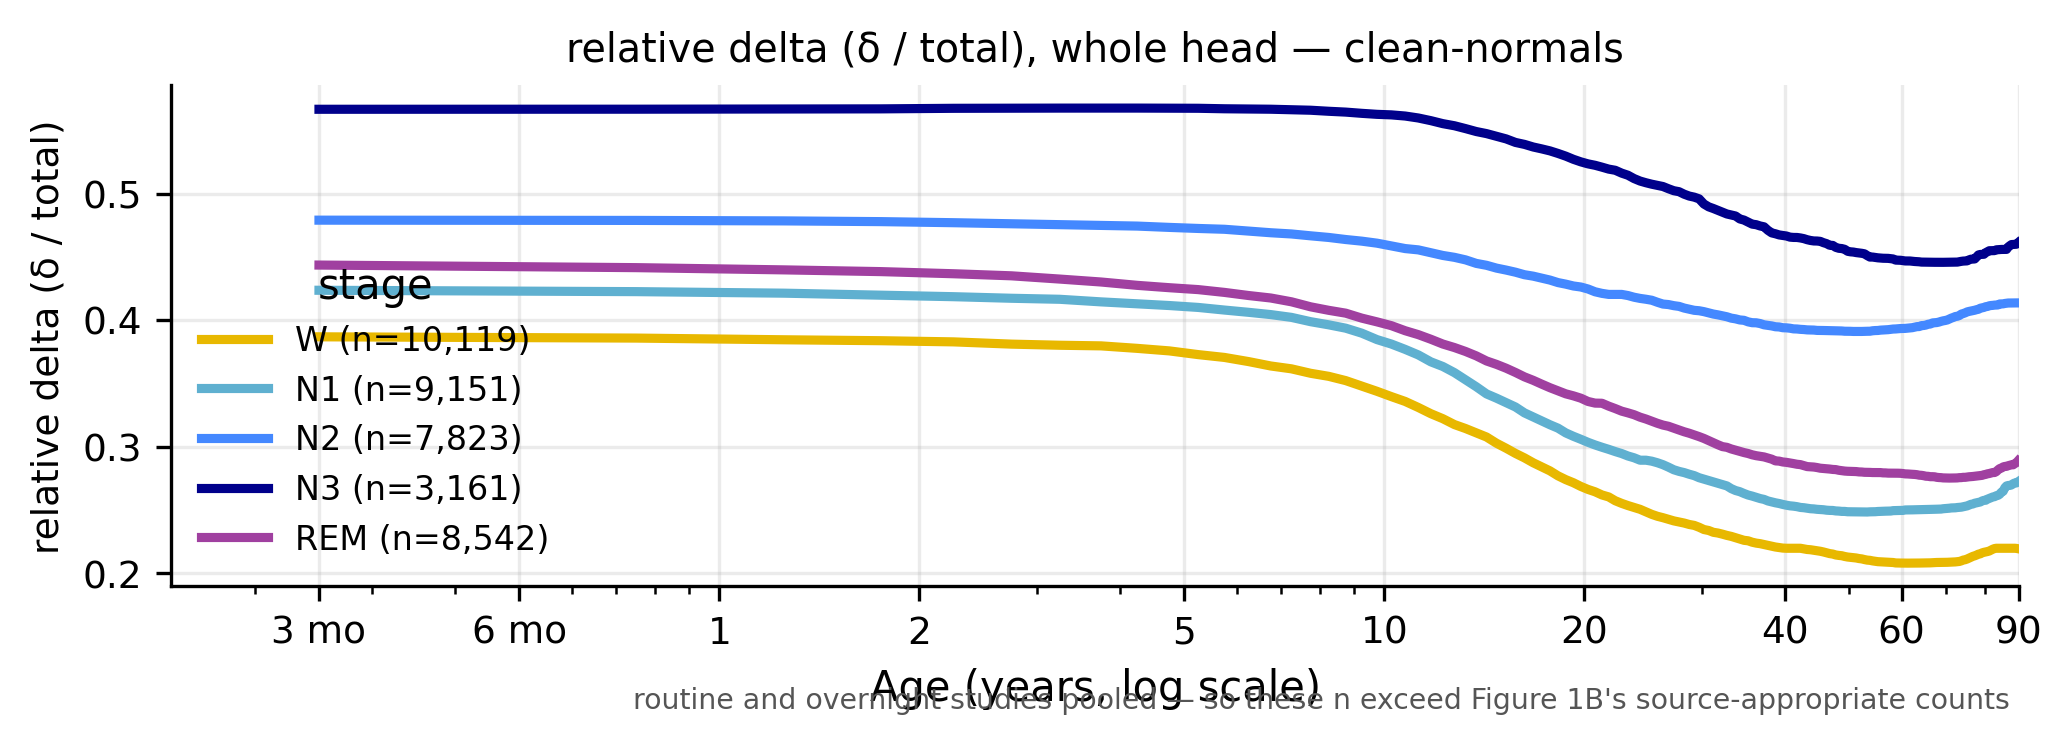
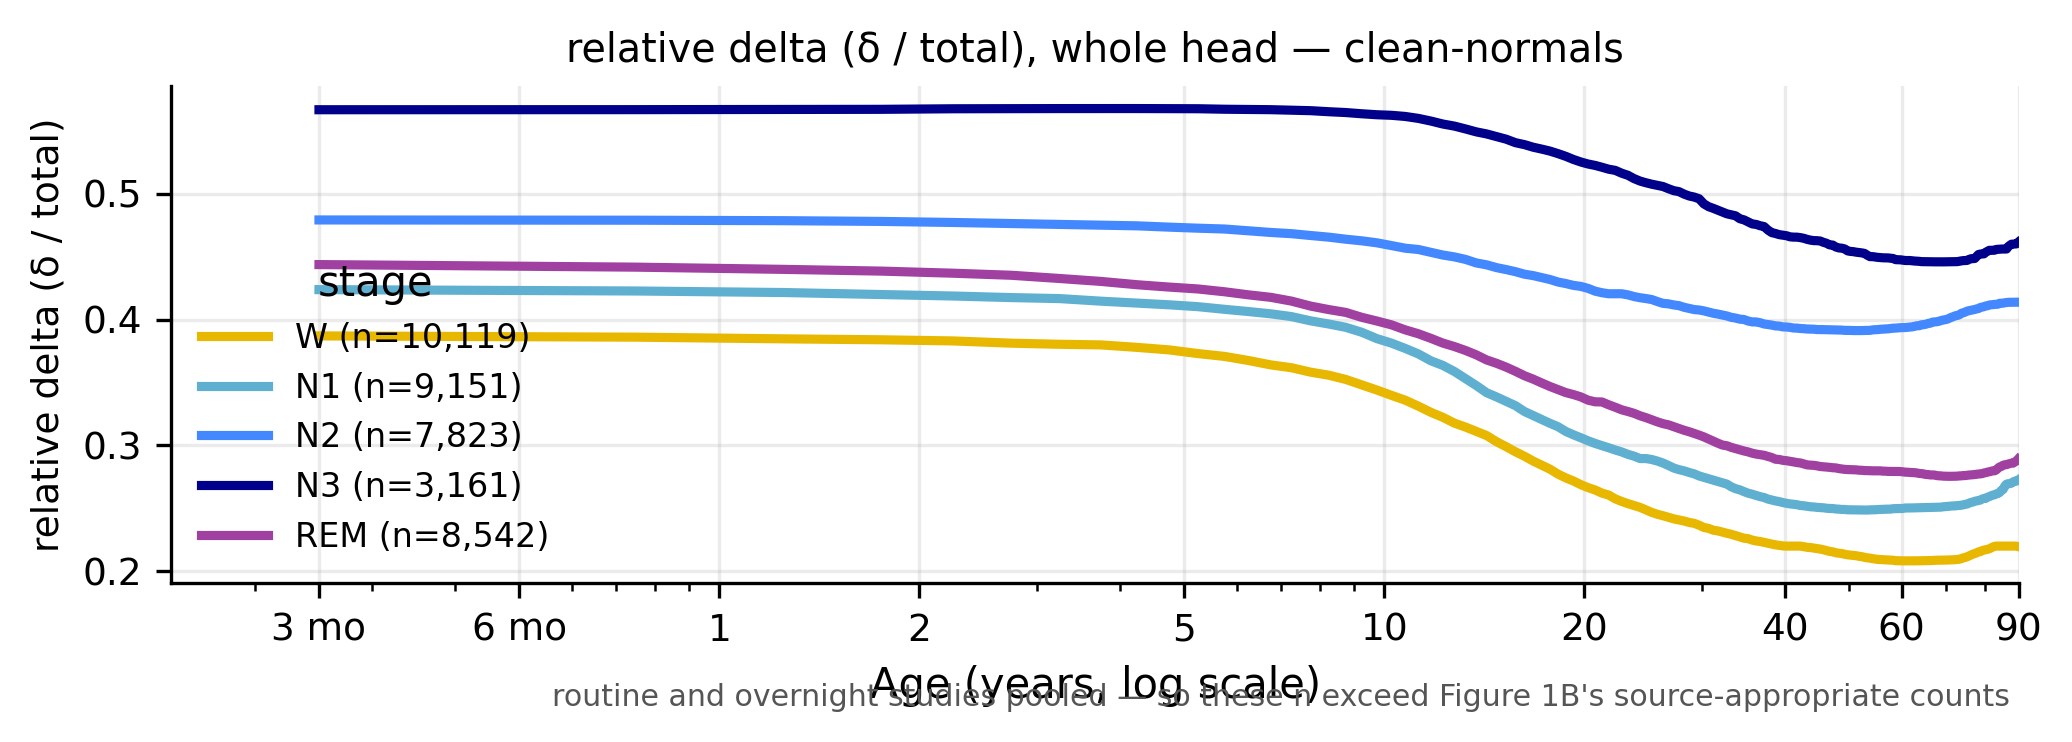
Figures 6, S3, S5, S8 now print every label at >= 7 pt (Elsevier)
Measured from the composed vector PDFs at printed size, not estimated:

  Figure 6  5.36 -> 7.23 pt. D2's one-line statistics key was wider than its
            7.1-in canvas, so the tight bbox grew the file to 8.45 in and the
            column rescale shrank the whole panel by 0.84. Two lines now.
  S3        6.84 -> 7.49 pt. Shared legend size 6.5 -> 7.0 (palette).
  S5        6.88 -> 7.28 pt. The pooled-counts note 6.8 -> 7.2.
  S8        5.99 -> 7.28 pt. The D1/D3/D4/D6 stack was 10.9 in, too tall to print
            at full width (87%). D3, D4 and D6 are shorter, so S8 prints at 100%.

Found while checking the renders, since measurement cannot see overlaps:
  * D1's key sat on ~10k scatter points: opaque ground
  * D4's rotated ACNS labels overprinted the density peak at 1%, and its key
    overprinted "abundant"/"continuous": headroom above the tallest bar, key
    placed between labels and data
  * D6's y label ran off the shortened axis, "chance (1/3)" was drawn across
    a bar, and the n labels sat on the bar edges
  * D3's y label clipped on the shorter axis: two lines

results/ unchanged by these re-runs.

diff --git a/scripts/57_description_panels.py b/scripts/57_description_panels.py
@@ -92,7 +92,9 @@ def main():
                   label="report slowing", rasterized=True)
     ax[0].axvline(1, ls=":", color="#666"); ax[0].axhline(1, ls=":", color="#666")
     ax[0].set_xlabel("delta-excess z (p90)"); ax[0].set_ylabel("theta-excess z (p90)")
-    ax[0].set_title("Type plane: delta vs theta", fontsize=9); ax[0].legend(frameon=False, fontsize=8)
+    ax[0].set_title("Type plane: delta vs theta", fontsize=9)
+    # Opaque key: it sits over ~10k scatter points, and a frameless key let the cloud show through the words.
+    ax[0].legend(frameon=True, facecolor="white", edgecolor="none", framealpha=0.9, fontsize=8, loc="upper left")
     ax[0].set_xlim(-2, 5); ax[0].set_ylim(-2, 5)
     l1 = contrast(ax[1], [("report: theta\n(theta/mixed)", sl[sl.rep_theta].theta_p90),
                           ("report: no theta\n(delta only)", sl[~sl.rep_theta].theta_p90)],
@@ -163,20 +165,25 @@ def main():
     ax[1].grid(alpha=.2, axis="y")
 
     # ONE key for the whole panel. Two per-axes keys collided in the middle of the figure.
-    fig.tight_layout(w_pad=2.2, rect=[0, 0.075, 1, 1])
+    # Two lines, one per side, not one: as a single 6.4 pt line it was wider than the 7.1-in canvas, so
+    # bbox_inches="tight" grew the file to 8.45 in, the column rescale shrank everything by 0.84, and the key
+    # printed at 5.4 pt and the tick labels at 6.3 pt -- under Elsevier's 7 pt floor.
+    fig.tight_layout(w_pad=2.2, rect=[0, 0.12, 1, 1])
     fig.text(0.5, 0.012,
-             "left \u2014 violin: distribution (KDE, 1\u201399th percentile); point and bar: mean with bootstrap "
-             "95% CI.    right \u2014 bar: mean difference; error bar: bootstrap 95% CI; *** p < 10\u207b\u00b3 "
-             "(Mann\u2013Whitney).", ha="center", va="bottom", fontsize=6.4, color="#555")
+             "left \u2014 violin: distribution (KDE, 1\u201399th percentile); point and bar: mean with bootstrap 95% CI\n"
+             "right \u2014 bar: mean difference; error bar: bootstrap 95% CI; *** p < 10\u207b\u00b3 (Mann\u2013Whitney)",
+             ha="center", va="bottom", fontsize=7.4, color="#555", linespacing=1.3)
     fig.savefig(FIG / "s4_d2.png", dpi=300, bbox_inches="tight"); plt.close(fig)
     md.append("- region (focality dose-response): " + "; ".join(rl) + "\n")
 
     # ---------- D3 ant-post ----------
     # Page-width and short: this is one of four panels stacked into Figure S8, and a tall narrow panel
     # forces the whole composite to be scaled down to fit the page height, shrinking every panel's type.
-    fig, ax = plt.subplots(figsize=(7.1, 2.55))
+    # At 2.55 in (D4 2.84, D6 2.7) the stack was 10.9 in and printed at 87%, taking every label under ~8.4 pt
+    # below Elsevier's 7 pt floor; these heights keep S8 printing at full width.
+    fig, ax = plt.subplots(figsize=(7.1, 2.05))
     aa = contrast(ax, [(t, d[d.gen_topography == t].antpost) for t in ["anterior", "posterior", "unspec"]],
-                  "Our A-P gradient by report topography", "anterior − posterior z  (+ = frontal)",
+                  "Our A-P gradient by report topography", "anterior − posterior z\n(+ = frontal)",
                   palette.topo_colors(["anterior", "posterior", "unspec"]), ylim=(-2, 2))
     ax.axhline(0, ls="--", color="#666")
     fig.tight_layout()
@@ -185,13 +192,19 @@ def main():
     md += ["## D3 — anterior-posterior predominance", "- " + "; ".join(aa) + f"; anterior>posterior p={pap:.1e}\n"]
 
     # ---------- D4 persistence ----------
-    fig, ax = plt.subplots(1, 2, figsize=(7.1, 2.84))
+    fig, ax = plt.subplots(1, 2, figsize=(7.1, 2.30))   # shorter for Figure S8; see D3
     ax[0].hist(d[d.clean_normal == True].prevalence, bins=40, alpha=.6, color=palette.NEUTRAL, density=True, label="clean-normal")  # noqa: E712
     ax[0].hist(d[d.slowing].prevalence, bins=40, alpha=.6, color=palette.ABNORMAL, density=True, label="report slowing")
+    # Headroom above the tallest bar, and the rotated ACNS labels hang inside it. The "occasional" line sits at 1%,
+    # exactly where the clean-normal density peaks, so a label hung from the old top edge overprinted those bars.
+    ax[0].set_ylim(0, ax[0].get_ylim()[1] * 1.65)
     for x, lab_ in [(.01, "occasional"), (.10, "frequent"), (.50, "abundant"), (.90, "continuous")]:
-        ax[0].axvline(x, ls=":", color="#666"); ax[0].text(x, ax[0].get_ylim()[1]*.9, lab_, rotation=90, fontsize=7, va="top")
+        ax[0].axvline(x, ls=":", color="#666"); ax[0].text(x, ax[0].get_ylim()[1]*.98, lab_, rotation=90, fontsize=7.5, va="top")
     ax[0].set_xlabel("prevalence (frac abnormal segments)"); ax[0].set_ylabel("density")
-    ax[0].set_title("Prevalence + ACNS scale", fontsize=9); ax[0].legend(frameon=False, fontsize=8, loc="upper right")
+    ax[0].set_title("Prevalence + ACNS scale", fontsize=9)
+    # Key between the labels (top) and the prevalence-1.0 spike (bottom); opaque, as the 0.9 line runs behind it.
+    ax[0].legend(frameon=True, facecolor="white", edgecolor="none", framealpha=0.9, fontsize=8,
+                 loc="upper right", bbox_to_anchor=(0.985, 0.60))
     ax[1].hist(np.clip(d[d.slowing].longest_run_min, 0, 30), bins=40, color=palette.ABNORMAL, alpha=.7)
     ax[1].set_xlabel("longest continuous run (min)"); ax[1].set_ylabel("recordings")
     ax[1].set_title("Longest run (report slowing)", fontsize=9)

diff --git a/scripts/58_description_words.py b/scripts/58_description_words.py
@@ -396,16 +396,22 @@ def main():
              ("band\n(delta/theta/mix)", a_band, n_band, False)]
     # Page-width and short -- see the note on the D3 panel in scripts/57: Figure S8 stacks four of these,
     # and one tall panel scales the entire composite (and all of its type) down to fit the page.
-    fig, ax = plt.subplots(figsize=(7.1, 2.7))
+    # 2.2 in, not 2.7: Figure S8 stacks this under D1/D3/D4 and the old heights made the stack too tall to print
+    # at full width (87%, pulling labels under 7 pt). See the D3 note in scripts/57.
+    fig, ax = plt.subplots(figsize=(7.1, 2.2))
     xx = np.arange(len(comps))
     for i, (lab_, v, n, solid) in enumerate(comps):
         # The x-axis names each component; blue here collided with SCORE-AI (Fig 3) and "visible in wake"
         # (Fig 7). Neutral fill, with the lighter tone still marking the provisional components.
         ax.bar(xx[i], v, color=(palette.NEUTRAL if solid else "#c9c9c9"), alpha=.95, edgecolor="#5a6b7a")
-        ax.text(xx[i], v + .01, f"{v*100:.0f}%\n(n={n})", ha="center", fontsize=8)
-    ax.axhline(1/3, ls="--", color="#666", lw=1); ax.text(xx[-1]+.15, 1/3, "chance (1/3)", color="#666", fontsize=8, va="bottom")
+        ax.text(xx[i], v + .015, f"{v*100:.0f}%\n(n={n})", ha="center", va="bottom", fontsize=8)   # clear of the bar edge
+    # Chance label in the gutter right of the last bar; at xx[-1]+.15 it was drawn across that bar.
+    ax.axhline(1/3, ls="--", color="#666", lw=1)
+    ax.text(xx[-1] + .45, 1/3 + .02, "chance\n(1/3)", color="#666", fontsize=8, va="bottom", ha="left")
+    ax.set_xlim(-.6, xx[-1] + .95)
     ax.set_xticks(xx); ax.set_xticklabels([c[0] for c in comps], fontsize=8.5)
-    ax.set_ylabel("concordance with report word"); ax.set_ylim(0, 1)
+    # Two lines: at the 2.2-in height Figure S8 needs, the one-line label ran off the top of the axes.
+    ax.set_ylabel("concordance\nwith report", fontsize=8.5); ax.set_ylim(0, 1)
     ax.set_title("Generated descriptor words concordant with the report", fontsize=9.5)
     ax.grid(alpha=.2, axis="y")
     fig.tight_layout(); fig.savefig(FIG / "s4_d6.png", dpi=300, bbox_inches="tight"); plt.close(fig)

diff --git a/scripts/111_curve_bank_v6.py b/scripts/111_curve_bank_v6.py
@@ -124,7 +124,7 @@ def main():
             ax.legend(frameon=False, fontsize=8, title="stage")
             ax.text(0.995, -0.20, "routine and overnight studies pooled \u2014 so these n exceed Figure 1B's "
                                   "source-appropriate counts", transform=ax.transAxes, ha="right", va="top",
-                    fontsize=6.8, color="#555")
+                    fontsize=7.2, color="#555")          # >= 7 pt printed; 6.8 printed at 6.88 in Figure S5
             fig.tight_layout()
             fig.savefig(f"figures/stage_curves/{feat}__whole_head.png", dpi=300, bbox_inches="tight")
             # Emit the per-stage n. Figure S5's counts differ tenfold from Figure 1B's for the same cohort

diff --git a/src/morgoth_slowing/viz/palette.py b/src/morgoth_slowing/viz/palette.py
@@ -105,7 +105,8 @@ PANEL_PT = 10          # panel letters: one size, everywhere
 TITLE_PT = 9.5
 LABEL_PT = 8.5
 TICK_PT = 7.5
-LEGEND_PT = 6.5
+LEGEND_PT = 7.0        # Elsevier's 7 pt floor applies at PRINTED size; at 6.5 the Figure S3 legend printed
+                       # at 6.84 pt. The ROC figures print at ~1.0-1.1x, so 7.0 authored clears it.
 
 
 def style_roc(ax, xlabel="1 \u2212 specificity", ylabel="sensitivity"):
